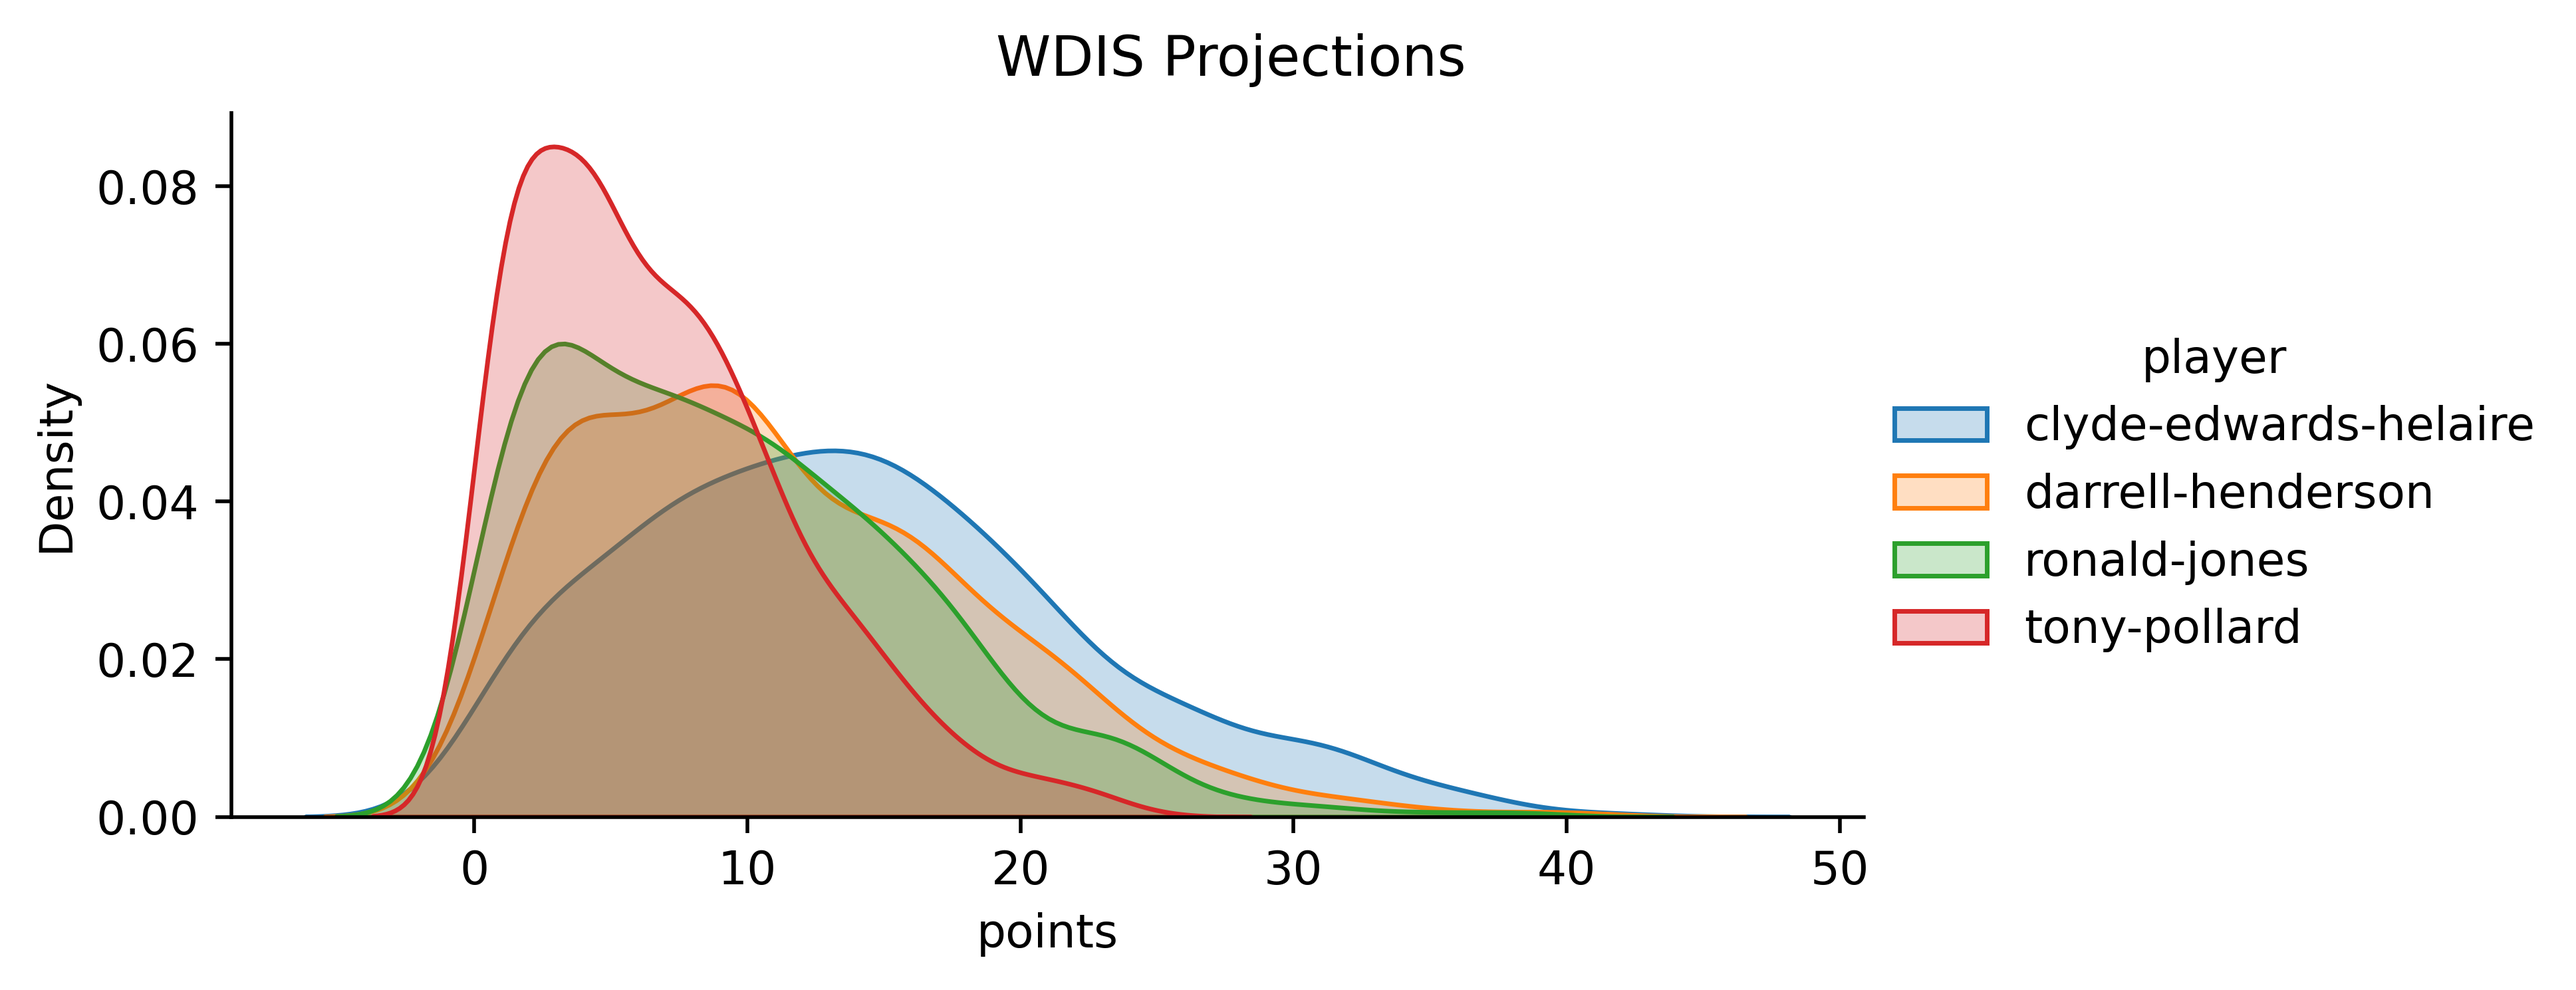
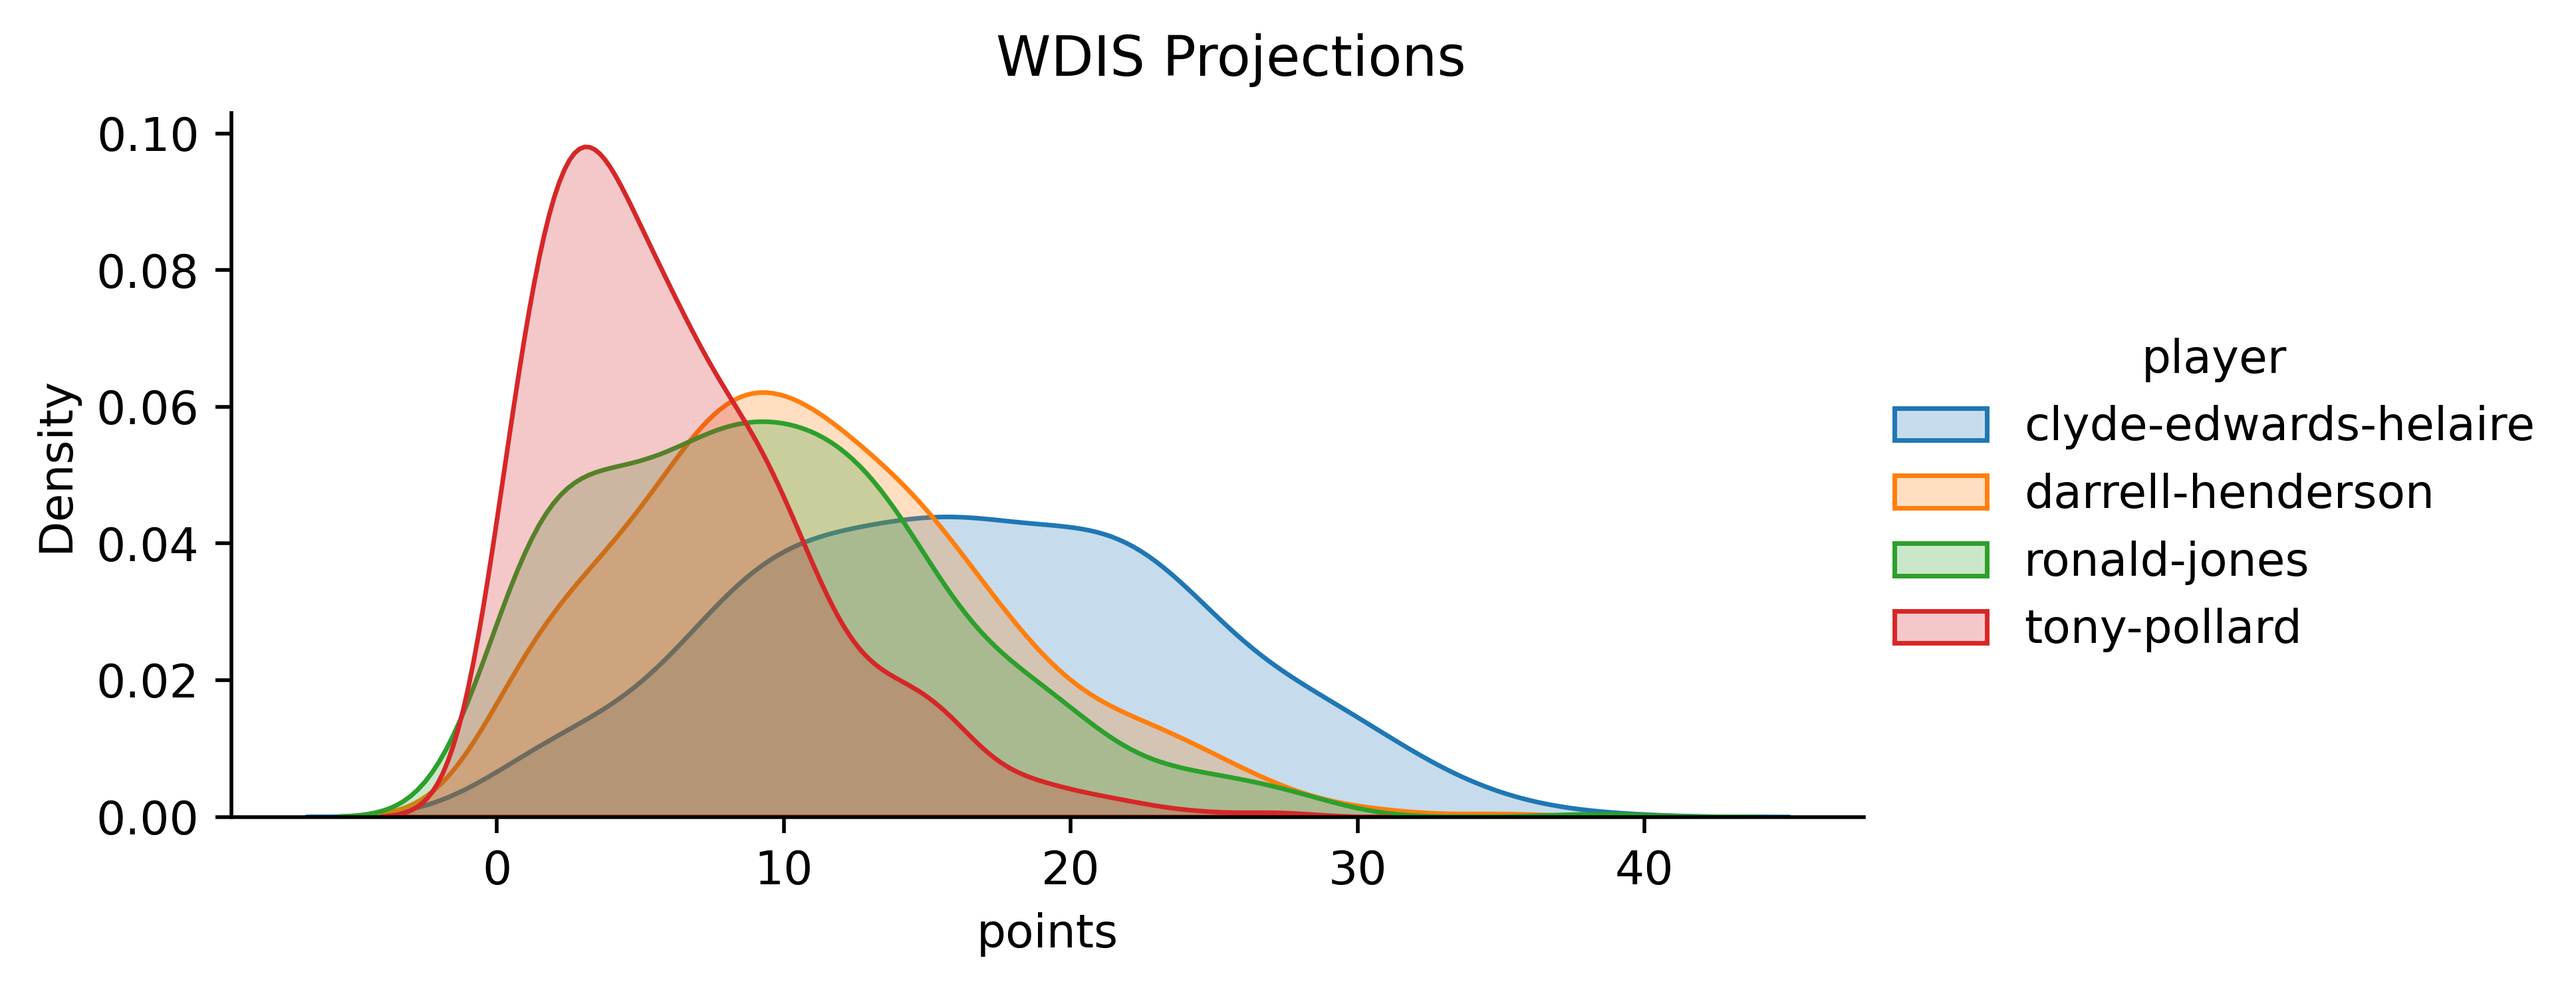
fix: update wdis working project for 2024

diff --git a/projects/wdis/wdis_working.py b/projects/wdis/wdis_working.py
@@ -34,13 +34,14 @@ else:
     valid_players = get_players(token, season=SEASON, week=WEEK,
                                 **SCORING).set_index('player_id')
 
-(valid_players[['name', 'player_id']])[:20]
+(valid_players[['name']])[:20]
 
 # and query sims
 player_ids = team1_ids + team2_ids + bench_ids
 
 if USE_SAVED_DATA:
     sims = pd.read_csv(path.join('projects', 'wdis', 'data', 'sims.csv'))
+    sims.columns = [int(x) for x in sims.columns]
 else:
     sims = get_sims(token, player_ids, week=WEEK, season=SEASON, nsims=NSIMS,
                     **SCORING)
@@ -61,7 +62,7 @@ nsims[team2].sum(axis=1).head()
 team1_beats_team2 = nsims[team1].sum(axis=1) > nsims[team2].sum(axis=1)
 team1_beats_team2.head()
 
-team1_beats_team2.mean()
+print(team1_beats_team2.mean())
 
 # first cut at WDIS
 def simple_wdis(sims, team1, team2, wdis):
@@ -81,8 +82,8 @@ for player in wdis:
 # modify it to so it takes in a list of wdis players and analyzes them all
 def simple_wdis2(sims, team1, team2, wdis):
     return {
-        player: (sims[team1 + [player]].sum(axis=1) >
-                 sims[team2].sum(axis=1)).mean()
+        player: float((sims[team1 + [player]].sum(axis=1) >
+                 sims[team2].sum(axis=1)).mean())
         for player in wdis}
 
 simple_wdis2(nsims, team1_no_wdis, team2, wdis)
@@ -97,8 +98,8 @@ def simple_wdis3(sims, team1, team2, wdis):
     # team1_no_wdis_alt = set(team1) - set(wdis)
 
     return {
-        player: (sims[team1_no_wdis + [player]].sum(axis=1) >
-                 sims[team2].sum(axis=1)).mean() for player in wdis}
+        player: float((sims[team1_no_wdis + [player]].sum(axis=1) >
+                 sims[team2].sum(axis=1)).mean()) for player in wdis}
 
 simple_wdis3(nsims, team1, team2, wdis)
 simple_wdis3(nsims, team1, team2, ['saquon-barkley', 'darrell-henderson'])
@@ -122,20 +123,26 @@ def simple_wdis4(sims, team1, team2, wdis):
     assert len(bench_options) >= 1
 
     return Series({
-        player: (sims[team1_no_wdis + [player]].sum(axis=1) >
-                 sims[team2].sum(axis=1)).mean() for player in wdis}).sort_values(ascending=False)
+        player: float((sims[team1_no_wdis + [player]].sum(axis=1) >
+                 sims[team2].sum(axis=1)).mean()) for player in wdis}
+                  ).sort_values(ascending=False)
 
 
 simple_wdis4(nsims, team1, team2, wdis)
 
+# will throw an error:
+# simple_wdis4(nsims, team1, team2, ['darrell-henderson', 'ronald-jones',
+#                                    'tony-pollard'])
+
+# beyond WDIS
 # here's where we landed
 team1 = ['jalen-hurts', 'saquon-barkley', 'clyde-edwards-helaire',
          'keenan-allen', 'cooper-kupp', 'dallas-goedert', 'jason-myers',
-         'tb-dst']
+         'tb']
 
 team2 = ['matthew-stafford', 'christian-mccaffrey', 'antonio-gibson',
         'tyler-lockett', 'justin-jefferson', 'noah-fant', 'matt-gay',
-        'gb-dst']
+        'gb']
 
 
 current_starter = 'clyde-edwards-helaire'
@@ -158,7 +165,7 @@ nsims[bench_options].max(axis=1).head()
 pd.concat([nsims[bench_options].max(axis=1),
            nsims[current_starter]], axis=1).head()
 
-(nsims[bench_options].max(axis=1) > nsims[current_starter]).mean()
+print((nsims[bench_options].max(axis=1) > nsims[current_starter]).mean())
 
 # prob of losing because we start the wrong guy
 # pieces we need
@@ -172,7 +179,12 @@ team2_total = nsims[team2].sum(axis=1)
 # true if team w/ best backup > team2 AND team w/ starer we picked < team2
 regret_col = ((team1_w_best_backup > team2_total) &
               (team1_w_starter < team2_total))
-regret_col.mean()
+print(regret_col.mean())
+
+# true if team w/ best backup > team2 AND team w/ starer we picked < team2
+nailed_it_col = ((team1_w_best_backup < team2_total) &
+                 (team1_w_starter > team2_total))
+print(nailed_it_col.mean())
 
 # function forms
 def sumstats(starter):
@@ -198,18 +210,30 @@ def regret_prob(starter, bench):
     return ((team_w_best_backup > team2_total) &
             (team_w_starter < team2_total)).mean()
 
+def nailed_it_prob(starter, bench):
+    team_w_starter = nsims[team1_sans_starter].sum(axis=1) + nsims[starter]
+    team_w_best_backup = (nsims[team1_sans_starter].sum(axis=1) +
+                        nsims[bench].max(axis=1))
+
+    return ((team_w_best_backup < team2_total) &
+            (team_w_starter > team2_total)).mean()
+
 # CEH
-win_prob(current_starter)
-wrong_prob(current_starter, bench_options)
-regret_prob(current_starter, bench_options)
+print(sumstats('clyde-edwards-helaire'))
+print(win_prob(current_starter))
+print(wrong_prob(current_starter, bench_options))
+print(regret_prob(current_starter, bench_options))
+print(nailed_it_prob(current_starter, bench_options))
 
 # now with next best alternative, henderson
-sumstats('darrell-henderson')
-win_prob('darrell-henderson')
-wrong_prob('darrell-henderson',
-           ['clyde-edwards-helaire', 'ronald-jones', 'tony-pollard'])
-regret_prob('darrell-henderson',
-           ['clyde-edwards-helaire', 'ronald-jones', 'tony-pollard'])
+print(sumstats('darrell-henderson'))
+print(win_prob('darrell-henderson'))
+print(wrong_prob('darrell-henderson',
+           ['clyde-edwards-helaire', 'ronald-jones', 'tony-pollard']))
+print(regret_prob('darrell-henderson',
+           ['clyde-edwards-helaire', 'ronald-jones', 'tony-pollard']))
+print(nailed_it_prob('darrell-henderson',
+           ['clyde-edwards-helaire', 'ronald-jones', 'tony-pollard']))
 
 # and so on ...
 
@@ -267,6 +291,7 @@ df.head()
 # now regret prob
 # this time: ** trick, can p
 df['regret'] = [regret_prob(**scen) for scen in scenarios]
+df['nailed'] = [nailed_it_prob(**scen) for scen in scenarios]
 
 # final result:
 df.round(2)
@@ -313,6 +338,14 @@ def wdis_plus(sims, team1, team2, wdis):
         return ((team_w_best_backup > team2_total) &
                 (team_w_starter < team2_total)).mean()
 
+    def nailed_it_prob(starter, bench):
+        team_w_starter = sims[team1_sans_starter].sum(axis=1) + sims[starter]
+        team_w_best_backup = (sims[team1_sans_starter].sum(axis=1) +
+                            sims[bench].max(axis=1))
+
+        return ((team_w_best_backup < team2_total) &
+                (team_w_starter > team2_total)).mean()
+
 
     # start with DataFrame of summary stats
     df = pd.concat([sumstats(player) for player in wdis], axis=1)
@@ -323,6 +356,7 @@ def wdis_plus(sims, team1, team2, wdis):
     df['wp'] = [win_prob(x['starter']) for x in scenarios]
     df['wrong'] = [wrong_prob(**x) for x in scenarios]
     df['regret'] = [regret_prob(**x) for x in scenarios]
+    df['nailed'] = [nailed_it_prob(**x) for x in scenarios]
 
     return df.sort_values('wp', ascending=False)
 
@@ -342,6 +376,7 @@ fa_kicker_ids = [1188, 869, 1635, 1035, 435, 872, 1079, 1477, 1003, 981, 592,
 
 if USE_SAVED_DATA:
     k_sims = pd.read_csv(path.join('projects', 'wdis', 'data', 'k_sims.csv'))
+    k_sims.columns = [int(x) for x in k_sims.columns]
 else:
     k_sims = get_sims(token, fa_kicker_ids, week=WEEK, season=SEASON,
                       nsims=1000, **SCORING)
@@ -372,7 +407,7 @@ points_long.columns = ['sim', 'team', 'points']
 points_long.head(10)
 
 g = sns.FacetGrid(points_long, hue='team', aspect=2)
-g = g.map(sns.kdeplot, 'points', shade=True)
+g = g.map(sns.kdeplot, 'points', fill=True)
 g.add_legend()
 g.fig.subplots_adjust(top=0.9)
 g.fig.suptitle('Team Fantasy Points Distributions')
@@ -394,7 +429,7 @@ points_long.columns = ['sim', 'team', 'points']
 points_long.head(10)
 
 g = sns.FacetGrid(points_long, hue='team', aspect=2)
-g = g.map(sns.kdeplot, 'points', shade=True)
+g = g.map(sns.kdeplot, 'points', fill=True)
 g.add_legend()
 g.fig.subplots_adjust(top=0.9)
 g.fig.suptitle('Team Fantasy Points Distributions - WDIS Options')
@@ -429,7 +464,7 @@ def wdis_plot(nsims, team1, team2, wdis):
 
     # actual plotting portion
     g = sns.FacetGrid(points_long, hue='team', aspect=4)
-    g = g.map(sns.kdeplot, 'points', shade=True)
+    g = g.map(sns.kdeplot, 'points', fill=True)
     g.add_legend()
     g.fig.subplots_adjust(top=0.9)
     g.fig.suptitle('Team Fantasy Points Distributions - WDIS Options')
@@ -443,7 +478,7 @@ pw = nsims[wdis].stack().reset_index()
 pw.columns = ['sim', 'player', 'points']
 
 g = sns.FacetGrid(pw, hue='player', aspect=2)
-g = g.map(sns.kdeplot, 'points', shade=True)
+g = g.map(sns.kdeplot, 'points', fill=True)
 g.add_legend()
 g.fig.subplots_adjust(top=0.9)
 g.fig.suptitle(f'WDIS Projections')

diff --git a/wdis_manual.py b/wdis_manual.py
@@ -118,7 +118,7 @@ def plot(sims, team1, team2, wdis):
 
     # actual plotting portion
     g = sns.FacetGrid(points_long, hue='team', aspect=4)
-    g = g.map(sns.kdeplot, 'points', shade=True)
+    g = g.map(sns.kdeplot, 'points', fill=True)
     g.add_legend()
     g.fig.subplots_adjust(top=0.9)
     g.fig.suptitle('Team Fantasy Points Distributions - WDIS Options')
@@ -150,7 +150,7 @@ if __name__ == '__main__':
     pw.columns = ['sim', 'player', 'points']
 
     g = sns.FacetGrid(pw, hue='player', aspect=2)
-    g = g.map(sns.kdeplot, 'points', shade=True)
+    g = g.map(sns.kdeplot, 'points', fill=True)
     g.add_legend()
     g.fig.subplots_adjust(top=0.9)
     g.fig.suptitle(f'WDIS Projections')

diff --git a/wdis.py b/wdis.py
@@ -16,7 +16,7 @@ from utilities import (LICENSE_KEY, generate_token, master_player_lookup,
 #####################
 LEAGUE = 'nate-league'
 WEEK = 1
-WRITE_OUTPUT = True
+WRITE_OUTPUT = False
 
 ##############################################
 # shouldn't have to change anything below this
